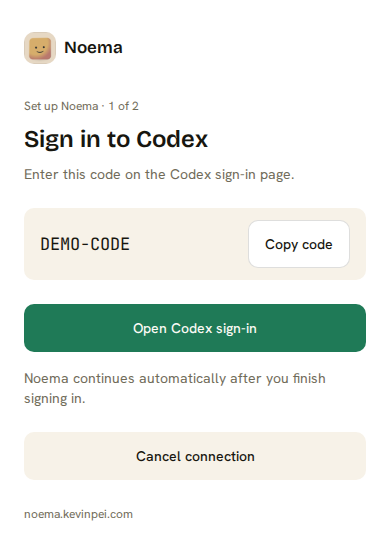
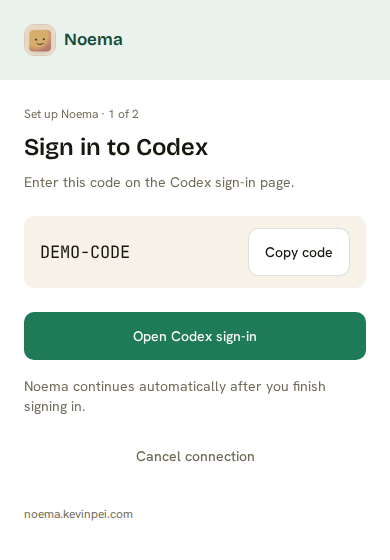
docs: refine supporting UI mock spacing and flow placement

diff --git a/docs/plans/2026-09-04-supporting-ui/mocks.css b/docs/plans/2026-09-04-supporting-ui/mocks.css
@@ -29,61 +29,100 @@ h2 { font: var(--text-heading-4-weight) var(--text-heading-4-size)/var(--text-he
 #preview[data-width="narrow"] { max-width: 320px; }
 .stage { display: grid; justify-items: center; align-content: start; padding: var(--spacing-8) var(--spacing-6) var(--spacing-12); background: var(--noema-paper-50); min-height: 600px; }
 .sheet { width: min(456px, 100%); padding: var(--spacing-8); background: var(--background); border: 1px solid var(--border-subtle); border-radius: var(--radius-container); box-shadow: var(--shadow-low); corner-shape: var(--corner-shape-container); }
-.brand { display: flex; align-items: center; gap: var(--spacing-2); margin-bottom: var(--spacing-8); font: var(--text-large-weight) var(--text-large-size)/var(--text-large-leading) var(--font-family-heading); }
+.brand { display: flex; align-items: center; gap: var(--spacing-2); margin: calc(-1 * var(--spacing-8)) calc(-1 * var(--spacing-8)) var(--spacing-6); padding: var(--spacing-6) var(--spacing-8); background: var(--noema-pine-50); color: var(--noema-pine-700); border-radius: var(--radius-container) var(--radius-container) 0 0; font: var(--text-large-weight) var(--text-large-size)/var(--text-large-leading) var(--font-family-heading); }
 .brand img { border-radius: var(--radius-element); }
-.intro { margin-top: var(--spacing-2); color: var(--muted-foreground); text-wrap: pretty; }
-.step { margin-bottom: var(--spacing-2); color: var(--muted-foreground); font-size: var(--text-supporting-size); line-height: var(--text-supporting-leading); }
-.actions { display: grid; gap: var(--spacing-2); margin-top: var(--spacing-6); }
+#preview[data-tone="welcome"] .brand, #preview[data-tone="success"] .brand { background: var(--noema-pine-700); color: var(--primary-foreground); }
+/* One owner per boundary: heading 8, task regions 24, related body groups 16. */
+.screen-heading { display: grid; gap: var(--spacing-2); }
+.screen-body { display: flex; flex-direction: column; gap: var(--spacing-4); margin-top: var(--spacing-6); }
+.screen-body > * { margin: 0; }
+.screen-body > .actions:has(.primary), .screen-body > .decision-actions { margin-top: var(--spacing-2); }
+.screen-body > .actions:first-child { margin-top: 0; }
+#screen { animation: arrive var(--motion-spring-standard) both; }
+.intro { color: var(--muted-foreground); text-wrap: pretty; }
+.step { color: var(--muted-foreground); font-size: var(--text-supporting-size); line-height: var(--text-supporting-leading); }
+.actions { display: grid; gap: var(--spacing-2); }
 .primary, .secondary, .outline { min-height: 48px; border-radius: var(--radius-element); padding: var(--spacing-3) var(--spacing-4); font-weight: var(--text-label-weight); border: 0; text-align: center; }
-.primary { background: var(--primary); color: var(--primary-foreground); transition: filter var(--motion-spring-micro); }
-.primary:hover { filter: brightness(.94); }
+.primary { background: var(--primary); color: var(--primary-foreground); transition: background var(--motion-spring-micro), box-shadow var(--motion-spring-micro); }
+.primary:hover { background: var(--noema-pine-600); box-shadow: var(--shadow-shell-control); }
+.primary:active { background: var(--noema-pine-700); box-shadow: none; }
 .secondary { background: transparent; color: var(--muted-foreground); }
-.secondary:hover, .option:hover { background: var(--surface-sunken); color: var(--foreground); }
+.secondary:hover { background: var(--surface-sunken); color: var(--foreground); }
 .outline { background: var(--background); border: 1px solid var(--border-default); }
-.decision-actions { display: grid; grid-template-columns: 1fr 1fr; gap: var(--spacing-2); margin-top: var(--spacing-6); }
-.note { margin-top: var(--spacing-4); color: var(--muted-foreground); }
-.status { display: flex; align-items: center; gap: var(--spacing-3); margin-top: var(--spacing-6); padding: var(--spacing-4); background: var(--surface-sunken); border-radius: var(--radius-element); }
+.decision-actions { display: grid; grid-template-columns: 1fr 1fr; gap: var(--spacing-2); }
+.note { color: var(--muted-foreground); }
+.status { display: flex; align-items: center; gap: var(--spacing-3); padding: var(--spacing-4); background: var(--surface-sunken); border-radius: var(--radius-element); }
 .status.success { background: var(--noema-pine-50); color: var(--noema-pine-700); }
 .status.error { background: var(--noema-red-100); color: var(--noema-red-700); }
 .status p + p { margin-top: var(--spacing-1); }
-.status-icon { font-size: var(--font-size-lg); flex: none; }
-.details { margin-top: var(--spacing-6); padding-top: var(--spacing-4); border-top: 1px solid var(--border-subtle); }
+.status-icon { display: grid; place-items: center; width: var(--spacing-6); height: var(--spacing-6); font-size: var(--font-size-lg); flex: none; }
+.status.success .status-icon { background: var(--noema-pine-600); color: var(--primary-foreground); border-radius: var(--radius-full); }
+.status-icon svg { width: var(--spacing-4); height: var(--spacing-4); }
+.status.success path { stroke-dasharray: 24; animation: complete var(--motion-spring-standard) both; }
+.details { padding: var(--spacing-4); background: var(--surface-sunken); border-radius: var(--radius-element); }
 .details p { margin-top: var(--spacing-2); color: var(--muted-foreground); }
-.field { display: grid; gap: var(--spacing-1-5); margin-top: var(--spacing-4); }
+.field { display: grid; gap: var(--spacing-1-5); }
 .field label { font-weight: var(--text-label-weight); }
 .field input { width: 100%; min-height: 48px; background: var(--background); border: 1px solid var(--border-default); border-radius: var(--radius-element); padding: var(--spacing-3); }
 .field [aria-invalid="true"] { border-color: var(--destructive); }
 .field-error { color: var(--destructive); }
-details { margin-top: var(--spacing-4); }
-summary { min-height: 44px; padding-block: var(--spacing-3); cursor: pointer; }
+details { border-block: 1px solid var(--border-subtle); }
+details[open] { padding-bottom: var(--spacing-3); }
+details .actions { margin-top: var(--spacing-4); }
+summary { min-height: 44px; padding-block: var(--spacing-3); cursor: default; color: var(--muted-foreground); }
 details p { color: var(--muted-foreground); margin-top: var(--spacing-2); }
+details .fact { margin-top: 0; }
 details code { font-family: var(--font-family-code); overflow-wrap: anywhere; }
-.options { display: grid; margin-top: var(--spacing-6); border-top: 1px solid var(--border-subtle); }
-.option { display: flex; align-items: center; justify-content: space-between; gap: var(--spacing-3); background: transparent; border: 0; border-bottom: 1px solid var(--border-subtle); text-align: left; padding: var(--spacing-4) 0; min-height: 76px; }
+.options { display: grid; gap: var(--spacing-1); margin: calc(-1 * var(--spacing-3)); }
+/* Row insets extend into the gutter; negative margins keep text on the body rhythm. */
+/* Offline ListItem reference: label/description/endContent; one whole-row action. */
+.option { display: flex; align-items: center; justify-content: space-between; gap: var(--spacing-3); background: transparent; border: 0; border-radius: var(--radius-element); text-align: left; padding: var(--spacing-3); min-height: 48px; transition: background var(--motion-spring-micro), box-shadow var(--motion-spring-micro); }
+.option:hover, .option:focus-visible { background: var(--surface-hover); box-shadow: var(--shadow-inset-hover); }
+.option:active { background: var(--noema-pine-50); box-shadow: var(--shadow-inset-selected); }
+.option-arrow { width: var(--spacing-4); height: var(--spacing-4); flex: none; color: var(--muted-foreground); transition: color var(--motion-spring-micro), transform var(--motion-spring-micro); }
+.option:hover .option-arrow, .option:focus-visible .option-arrow { color: var(--noema-pine-600); transform: translateX(var(--spacing-1)); }
 .option-copy { display: grid; gap: var(--spacing-1); }
 .option-copy small { color: var(--muted-foreground); font: inherit; }
-.facts { display: grid; gap: var(--spacing-3); margin-top: var(--spacing-4); }
+.facts { display: grid; gap: var(--spacing-3); }
 .fact { display: flex; flex-wrap: wrap; justify-content: space-between; gap: var(--spacing-2); }
 .fact span:last-child { color: var(--muted-foreground); }
 .assignment { display: grid; gap: var(--spacing-1-5); margin-top: var(--spacing-3); }
 .assignment select { background: var(--background); border: 1px solid var(--border-default); border-radius: var(--radius-element); padding: var(--spacing-2); min-height: 44px; width: 100%; }
-.progress { margin-top: var(--spacing-6); }
+.progress { display: grid; gap: var(--spacing-2); }
 progress { appearance: none; width: 100%; height: 6px; border: 0; border-radius: var(--radius-full); overflow: hidden; background: var(--surface-sunken); accent-color: var(--primary); }
 progress::-webkit-progress-bar { background: var(--surface-sunken); }
 progress::-webkit-progress-value { background: var(--primary); border-radius: var(--radius-full); }
 progress::-moz-progress-bar { background: var(--primary); }
-.progress .fact { margin-top: var(--spacing-2); }
-.device-code { display: flex; flex-wrap: wrap; align-items: center; justify-content: space-between; gap: var(--spacing-3); margin-top: var(--spacing-6); padding: var(--spacing-3) var(--spacing-4); border-radius: var(--radius-element); background: var(--surface-sunken); }
+.progress .fact { font-variant-numeric: tabular-nums; }
+.device-code { display: flex; flex-wrap: wrap; align-items: center; justify-content: space-between; gap: var(--spacing-3); padding: var(--spacing-3) var(--spacing-4); border-radius: var(--radius-element); background: var(--surface-sunken); }
 .device-code code { font-size: var(--font-size-lg); font-family: var(--font-family-code); letter-spacing: normal; }
 .spinner { width: 18px; height: 18px; border: 2px solid var(--border-default); border-top-color: var(--primary); border-radius: var(--radius-full); animation: turn 1s linear infinite; flex: none; }
 .server-name { color: var(--muted-foreground); margin-top: var(--spacing-6); font-size: var(--text-supporting-size); line-height: var(--text-supporting-leading); overflow-wrap: anywhere; }
 .review-context { max-width: 760px; margin: 0 auto; padding: var(--spacing-6); border-top: 1px solid var(--border-subtle); color: var(--muted-foreground); }
 .review-context p + p { margin-top: var(--spacing-2); }
 #review-status { min-height: 28px; text-align: center; padding-inline: var(--spacing-4); color: var(--noema-pine-700); }
+/* Context for existing Chat intervention placement, not a proposed Chat redesign. */
+#preview[data-surface="chat"] .sheet { width: min(640px, 100%); }
+#preview[data-surface="chat"] .brand, #preview[data-surface="chat"] .server-name { display: none; }
+.chat-heading { display: flex; justify-content: space-between; gap: var(--spacing-3); padding-bottom: var(--spacing-4); border-bottom: 1px solid var(--border-subtle); }
+.chat-heading span { color: var(--muted-foreground); }
+.chat-request { margin-block: var(--spacing-6); margin-left: var(--spacing-6); padding: var(--spacing-3); border-radius: var(--radius-element); background: var(--surface-sunken); }
+#preview[data-surface="chat"] #screen { padding: var(--spacing-3); border: 1px solid var(--border-subtle); border-radius: var(--radius-element); box-shadow: var(--shadow-low); }
+#preview[data-surface="chat"] .screen-heading { gap: var(--spacing-1); }
+#preview[data-surface="chat"] h1 { font: var(--text-label-weight) 13px/1.35 var(--font-family-body); text-wrap: pretty; }
+#preview[data-surface="chat"] .intro { font-size: var(--text-supporting-size); line-height: 1.45; }
+#preview[data-surface="chat"] .screen-body { margin-top: var(--spacing-3); gap: var(--spacing-3); }
+#preview[data-surface="chat"] .actions { display: flex; flex-wrap: wrap; justify-content: end; gap: var(--spacing-1); margin: 0; }
+#preview[data-surface="chat"] .actions button { min-height: 44px; padding: var(--spacing-2) var(--spacing-3); }
+#preview[data-surface="chat"] .status { padding: 0; background: transparent; font-size: var(--text-supporting-size); }
+#chat-composer { display: flex; justify-content: space-between; gap: var(--spacing-3); margin-top: var(--spacing-3); padding: var(--spacing-4); color: var(--muted-foreground); border: 1px solid var(--border-subtle); border-radius: var(--radius-container); }
+@keyframes arrive { from { opacity: 0; transform: translateY(var(--spacing-1)); } to { opacity: 1; transform: none; } }
+@keyframes complete { from { stroke-dashoffset: 24; } to { stroke-dashoffset: 0; } }
 @keyframes turn { to { transform: rotate(360deg); } }
 @container (max-width: 500px) {
   .stage { background: var(--background); padding: var(--spacing-8) var(--spacing-6); min-height: 560px; }
   .sheet { padding: 0; border: 0; box-shadow: none; border-radius: 0; }
+  .brand { margin: calc(-1 * var(--spacing-8)) calc(-1 * var(--spacing-6)) var(--spacing-6); padding: var(--spacing-6); border-radius: 0; }
   .server-name { text-align: left; width: 100%; }
   .field input { font-size: max(16px, 1em); }
 }
@@ -92,6 +131,6 @@ progress::-moz-progress-bar { background: var(--primary); }
   .review-controls { display: grid; grid-template-columns: minmax(0, 1fr); }
 }
 @media (prefers-reduced-motion: reduce) {
-  .spinner { animation: none; }
-  .primary { transition: none; }
+  .spinner, #screen, .status.success path { animation: none; }
+  .primary, .option, .option-arrow { transition: none; }
 }

diff --git a/docs/plans/2026-09-04-supporting-ui/mocks.js b/docs/plans/2026-09-04-supporting-ui/mocks.js
@@ -5,15 +5,16 @@
   const finish = (label, variant = 'primary') => `<button type="button" class="${variant}" data-finish>${label}</button>`;
   const actions = (...items) => `<section class="actions">${items.join('')}</section>`;
   const note = text => `<p class="note">${text}</p>`;
-  const status = (title, text = '', kind = '') => `<section class="status ${kind}"><span class="status-icon" aria-hidden="true">${kind === 'success' ? '✓' : kind === 'error' ? '!' : '·'}</span><section><p><strong>${title}</strong></p>${text ? `<p>${text}</p>` : ''}</section></section>`;
+  const check = '<svg viewBox="0 0 24 24" fill="none" stroke="currentColor" stroke-width="2" stroke-linecap="round" stroke-linejoin="round"><path d="m5 12 4 4 10-10"/></svg>';
+  const status = (title, text = '', kind = '') => `<section class="status ${kind}"><span class="status-icon" aria-hidden="true">${kind === 'success' ? check : kind === 'error' ? '!' : '·'}</span><section><p><strong>${title}</strong></p>${text ? `<p>${text}</p>` : ''}</section></section>`;
   const waiting = text => `<section class="status" role="status"><span class="spinner" aria-hidden="true"></span><p>${text}</p></section>`;
   const field = (id, label, placeholder, error = '') => `<section class="field"><label for="${id}">${label}</label><input id="${id}" type="text" placeholder="${placeholder}" readonly${error ? ` aria-invalid="true" aria-describedby="${id}-error"` : ''}>${error ? `<p class="field-error" id="${id}-error">${error}</p>` : ''}</section>`;
   const facts = rows => `<section class="facts">${rows.map(([label, value]) => `<p class="fact"><span>${label}</span><span>${value}</span></p>`).join('')}</section>`;
-  const option = (label, text, target, provider) => `<button type="button" class="option" data-go="${target}" data-provider="${provider}"><span class="option-copy"><strong>${label}</strong><small>${text}</small></span><span aria-hidden="true">›</span></button>`;
+  const option = (label, text, target, provider) => `<button type="button" class="option" data-go="${target}" data-provider="${provider}"><span class="option-copy"><strong>${label}</strong><small>${text}</small></span><svg class="option-arrow" aria-hidden="true" viewBox="0 0 24 24" fill="none" stroke="currentColor" stroke-width="2" stroke-linecap="round" stroke-linejoin="round"><path d="m9 6 6 6-6 6"/></svg></button>`;
   const recoveryHelp = `<details><summary>Where do I find this code?</summary><p>The current code is in the server’s <code>config.yaml</code> file, under <code>web.recovery_code</code>.</p><p>Ask the person who manages Noema for help.</p></details>`;
   const recoveryRule = note('Each attempt replaces the code, even if it fails.');
-  const localFacts = facts([['Download', '4.9 GB'], ['Runs on', 'Your Noema server']]);
-  const localDetails = `<details><summary>Model details</summary><p>Noema selected this model for the available memory on your server.</p><p>Model files stay on the server.</p></details>`;
+  const localFacts = facts([['Model', 'Gemma 4 E4B IT'], ['Download', '5.3 GB'], ['Runs on', 'Your Noema server']]);
+  const localDetails = `<details><summary>Model details</summary>${facts([['License', 'Apache-2.0'], ['Model format', 'GGUF · Q4_K_M'], ['Runtime', 'Metal']])}<p>Model file: <code>gemma-4-E4B-it-Q4_K_M.gguf</code></p></details>`;
   const screens = [
     {
       id: 'access-login', group: 'Passkeys', label: 'Sign in', title: 'Unlock Noema',
@@ -88,8 +89,8 @@
     {
       id: 'provider-choice', group: 'Model setup', label: 'Choose provider', title: 'Choose how Noema thinks', step: 'Set up Noema · 1 of 2',
       intro: 'Connect one model provider to get started.',
-      body: `<section class="options">${option('Local', 'Download a model to your Noema server.', 'local-ready', 'Local')}${option('OpenRouter', 'Connect your OpenRouter account.', 'provider-openrouter', 'OpenRouter')}${option('Codex', 'Continue with your Codex sign-in.', 'provider-codex', 'Codex')}</section>` + note('You can add more providers later in Settings.'),
-      intent: 'Keep three peer choices in aligned rows. Use the actual server as the location for local computation.',
+      body: `<section class="options" aria-label="Model providers">${option('Local', 'Download a model to your Noema server.', 'local-ready', 'Local')}${option('OpenRouter', 'Connect your OpenRouter account.', 'provider-openrouter', 'OpenRouter')}${option('Codex', 'Continue with your Codex sign-in.', 'provider-codex', 'Codex')}</section>` + note('You can add more providers later in Settings.'),
+      intent: 'Reuse Astryx List and ListItem, as Settings does. Use the existing Noema hover and focus tokens. Descriptions must wrap on phones.',
       constraint: 'Account and payment requirements must come from verified provider information. Do not invent a universal recommendation.'
     },
     {
@@ -136,14 +137,14 @@
     {
       id: 'local-ready', group: 'Local models', label: 'Before download', title: 'Set up a local model', step: 'Set up Noema · 1 of 2',
       intro: 'Download the recommended model to your Noema server.',
-      body: localFacts + localDetails + actions(go('Download model · 4.9 GB', 'local-downloading', 'primary', 'Local'), go('Choose another provider', 'provider-choice', 'secondary')),
-      intent: 'Lead with download size and where the model runs. Disclose technical details.',
-      constraint: 'Download size is sample data. Replace it with the server-selected model, fit, size, and license.'
+      body: localFacts + localDetails + actions(go('Download model · 5.3 GB', 'local-downloading', 'primary', 'Local'), go('Choose another provider', 'provider-choice', 'secondary')),
+      intent: 'Name the model before download. Keep size and computation location visible; disclose license and exact build.',
+      constraint: 'This catalog example requires a compatible Metal server. Production must show the selected model’s actual name, size, license, and build.'
     },
     {
       id: 'local-downloading', group: 'Local models', label: 'Download in progress', title: 'Downloading your model',
       intro: 'The model is downloading to your Noema server.',
-      body: `<section class="progress"><progress aria-label="Model download" value="47" max="100">47%</progress>${facts([['2.3 GB of 4.9 GB', '47%']])}</section>` + note('Noema will check the model before you continue.') + actions(go('Cancel download', 'local-ready', 'secondary')),
+      body: `<section class="progress"><progress aria-label="Model download" value="47" max="100">47%</progress>${facts([['2.5 GB of 5.3 GB', '47%']])}</section>` + note('Noema will check the model before you continue.') + actions(go('Cancel download', 'local-ready', 'secondary')),
       intent: 'Keep progress, transferred bytes, and cancellation in one group.',
       constraint: 'Progress is a fixed example. Production uses transfer state. Do not show an invented time estimate.'
     },
@@ -211,35 +212,35 @@
       constraint: 'Do not use an unvalidated return address or expose callback credentials.'
     },
     {
-      id: 'service-reconnect', group: 'Service connection', label: 'Reconnect service', title: 'Reconnect Google Drive',
-      intro: 'Sign in again so Noema can use this connection.',
-      body: actions(go('Continue to Google', 'service-waiting'), finish('Cancel', 'secondary')) + note('Google opens in another tab.'),
-      intent: 'Keep the service and reason visible. Reuse the existing connection dialog for settings entry.',
+      id: 'service-reconnect', group: 'Chat connection card', surface: 'chat', label: 'Reconnect in Chat', title: 'Reconnect Google Drive',
+      intro: 'Sign in again to let Noema use Google Drive. Google opens in another tab.',
+      body: actions(finish('Cancel', 'secondary'), go('Continue to Google', 'service-waiting')),
+      intent: 'Chat keeps this request in HumanInterventionCard. Settings keeps its existing connection dialog. Do not add a service-connection page.',
       constraint: 'Google Drive is example data. Existing credentials, OAuth, and no-auth paths keep their supported behavior.'
     },
     {
-      id: 'service-waiting', group: 'Service connection', label: 'Waiting for provider', title: 'Finish connecting Google Drive',
+      id: 'service-waiting', group: 'Chat connection card', surface: 'chat', label: 'Waiting in Chat', title: 'Finish connecting Google Drive',
       intro: 'Complete sign-in in the other tab. Noema will update this connection automatically.',
-      body: waiting('Waiting for Google') + actions(finish('Open Google sign-in again', 'outline'), go('Cancel connection', 'service-reconnect', 'secondary')),
-      intent: 'Preserve the same status and cancellation pattern used in provider setup.',
+      body: waiting('Waiting for Google') + actions(go('Cancel', 'service-reconnect', 'secondary'), finish('Open Google sign-in again', 'outline')),
+      intent: 'Keep the pending connection inside the same HumanInterventionCard. The surrounding Chat remains available.',
       constraint: 'Use the server-selected action and exact attempt event. Do not infer success from a closed tab.'
     },
     {
-      id: 'service-connected', group: 'Service connection', label: 'Service connected', title: 'Google Drive is connected',
+      id: 'service-connected', group: 'Service callback results', label: 'Sign-in complete', title: 'Google sign-in is complete',
       intro: 'Return to Noema to review this connection’s tools and permissions.',
-      body: status('Connection complete', '', 'success') + actions(finish('Return to connection')),
-      intent: 'Return to the originating connection instead of dropping the user at Chat.',
+      body: status('Account connected', '', 'success') + actions(finish('Return to Noema')),
+      intent: 'This is a browser callback result. Return to its originating Chat card or Settings dialog to finish permissions.',
       constraint: 'Keep connection policy separate from provider authorization. Use only a validated same-origin destination.'
     },
     {
-      id: 'service-partial', group: 'Service connection', label: 'Sign-in complete, tools unavailable', title: 'Signed in, but tools are not ready',
+      id: 'service-partial', group: 'Service callback results', label: 'Sign-in complete, tools unavailable', title: 'Signed in, but tools are not ready',
       intro: 'Noema could not load the tools for this connection.',
       body: actions(finish('Review connection')) + note('You can retry from the connection settings.'),
       intent: 'Distinguish successful authentication from incomplete connection activation.',
       constraint: 'Do not label this state Connected or discard a valid grant solely because tool listing failed.'
     },
     {
-      id: 'service-failed', group: 'Service connection', label: 'Connection failed', title: 'This connection could not finish',
+      id: 'service-failed', group: 'Service callback results', label: 'Connection failed', title: 'This connection could not finish',
       intro: 'Return to Noema to review the connection and try again.',
       body: actions(finish('Review connection')) + `<details><summary>Technical details</summary><p>The provider did not accept this connection request.</p></details>`,
       intent: 'Use the same branded result page for provider and integration callback failures.',
@@ -282,7 +283,13 @@
     flowSelect.value = screen.group;
     stateSelect.replaceChildren(...screens.filter(item => item.group === screen.group).map(item => new Option(item.label, item.id)));
     stateSelect.value = screen.id;
-    screenRoot.innerHTML = `${screen.step ? `<p class="step">${screen.step}</p>` : ''}<h1 id="screen-title" tabindex="-1">${screen.title}</h1><p class="intro">${screen.intro}</p>${screen.id === 'provider-models' ? modelBody() : screen.body}`;
+    const body = screen.id === 'provider-models' ? modelBody() : screen.body;
+    preview.dataset.surface = screen.surface || 'page';
+    preview.dataset.tone = ['provider-choice', 'access-create'].includes(screen.id) ? 'welcome'
+      : ['recovery-complete', 'provider-complete', 'local-installed', 'oauth-connected', 'service-connected'].includes(screen.id) ? 'success' : 'default';
+    document.getElementById('chat-context').hidden = screen.surface !== 'chat';
+    document.getElementById('chat-composer').hidden = screen.surface !== 'chat';
+    screenRoot.innerHTML = `<header class="screen-heading">${screen.step ? `<p class="step">${screen.step}</p>` : ''}<h1 id="screen-title" tabindex="-1">${screen.title}</h1><p class="intro">${screen.intro}</p></header><section class="screen-body">${body}</section>`;
     document.getElementById('intent').textContent = screen.intent;
     document.getElementById('constraint').textContent = screen.constraint;
     document.title = `${screen.label} · Noema UI plan`;

diff --git a/docs/plans/2026-09-04-supporting-ui/index.html b/docs/plans/2026-09-04-supporting-ui/index.html
@@ -25,7 +25,9 @@
     <section class="stage">
       <article class="sheet">
         <header class="brand"><img src="assets/noema.png" width="32" height="32" alt=""><span>Noema</span></header>
+        <section id="chat-context" hidden><header class="chat-heading"><strong>Chat</strong><span>Trip notes</span></header><p class="chat-request">Find my trip notes in Google Drive.</p></section>
         <section id="screen" aria-labelledby="screen-title"></section>
+        <section id="chat-composer" hidden aria-label="Chat composer context"><span>Message Noema…</span><span aria-hidden="true">↑</span></section>
       </article>
       <footer class="server-name">noema.kevinpei.com</footer>
     </section>

diff --git a/docs/plans/2026-09-04-supporting-ui/README.md b/docs/plans/2026-09-04-supporting-ui/README.md
@@ -5,7 +5,9 @@ Date: 2026-09-04. Source baseline: `main` at `53b15734`.
 
 ## Review the mocks
 
-Open [the gallery](index.html) in a browser. No server, build, or network connection is required.
+Open [the gallery](index.html) in a browser. An editor file link can show source instead of the rendered page.
+For browser review, serve this directory with `python3 -m http.server 8765 --bind 127.0.0.1`.
+Then open [the rendered gallery](http://127.0.0.1:8765/). No build or remote resources are required.
 Use the Flow and State controls to inspect each example.
 Use Width to compare desktop, phone, and narrow layouts.
 The address fragment identifies a screen. Browser Back restores the previous screen.
@@ -20,7 +22,8 @@ The gallery consolidates the earlier login, recovery, model review, and callback
 | Model setup | [Choose provider](index.html#provider-choice) | Provider choice, OpenRouter, Codex device code, waiting, expiration, model review, completion |
 | Local models | [Before download](index.html#local-ready) | Download choice, progress, verification, installed, failed, unavailable |
 | Native app connection | [Approve connection](index.html#oauth-consent) | Consent, connected, denied, expired, invalid request |
-| Service connection | [Reconnect service](index.html#service-reconnect) | Reconnect, waiting, connected, tools unavailable, failed |
+| Chat connection card | [Reconnect in Chat](index.html#service-reconnect) | Reconnect and waiting inside the existing human intervention surface |
+| Service callback results | [Sign-in complete](index.html#service-connected) | Browser callback: sign-in complete, tools unavailable, failed |
 | Unavailable states | [Server unavailable](index.html#system-unavailable) | Server authentication unavailable, fatal app load failure |
 
 ## User direction
@@ -28,7 +31,9 @@ The gallery consolidates the earlier login, recovery, model review, and callback
 - Keep the existing design system, including fonts, semantic type sizes, weights, and line heights.
 - Improve the supporting flows without redesigning Chat, Tasks, Memory, or Settings.
 - Make the interface polished, restrained, and understandable for a non-technical person.
-- Add character through the existing Noema mark, clear composition, and accurate completion feedback.
+- Add more character through the existing mark, stronger pine headers, responsive controls, and accurate completion feedback.
+- Use the existing list components for provider choices. Keep service setup in its current Chat card or Settings dialog.
+- Show concrete model details. Do not substitute a general memory-fit statement for the model identity.
 - Save these designs for later application. Do not implement product changes in this unit.
 
 ## Design model
@@ -46,11 +51,18 @@ Use the existing setup frame, connection surfaces, and Astryx controls during im
 - Start with a 456-pixel surface. Expand only when the task requires more space.
 - On phones, remove the outer card treatment and use 24-pixel side insets.
 - Keep the mark, heading, body, fields, and actions on one alignment.
+- Use a pine-tinted brand band. Use deep pine for initial setup and successful completion.
+- Keep errors calm. Reserve the stronger completion color and check animation for confirmed success.
 - Use existing `text-heading-1`, `text-body`, `text-label`, and `text-supporting` roles.
 - Use the existing font assets. Do not add font imports, custom tracking, or another type scale.
 - Use `radius-container`, `radius-element`, and `shadow-low` from the current Noema theme.
-- Use existing spacing tokens: 4–8 pixels within groups, 12–16 between fields, and 24 between task regions.
-- Use 32 pixels only at the major brand boundary and desktop surface inset.
+- Assign one spacing owner per boundary: 8 pixels inside the header, 16 between body groups, and 24 before primary actions.
+- Keep label/control gaps at 6 pixels. Do not add child margins to a parent stack gap.
+- Use 32 pixels for the desktop surface inset. Use 24 pixels inside the brand band and below it.
+- Use Astryx `List` and `ListItem` for provider choices, with wrapping descriptions and a trailing chevron.
+- Settings already uses these components. Tasks uses `ListCardLink`; retain its familiar whole-row feedback.
+- Match the preview’s inset hover, pressed fill, and visible keyboard focus through existing theme tokens.
+- Keep model name, download size, and computation location visible. Disclose license, format, runtime, and exact file.
 - Give one action primary emphasis. Keep alternatives quiet and access consequences visible.
 - Use touch controls around 48 pixels high without making all product controls larger.
 - Use the shared motion presets. Keep loading geometry stable and preserve focus through transitions.
@@ -89,6 +101,9 @@ No credentials were submitted. No account, grant, or recovery code was changed.
 - Native consent must disclose complete Noema access before approval.
 - Preserve recent passkey verification, CSRF, PKCE, origin checks, and validated callback destinations.
 - Use saved attempt state to distinguish denial, expiration, failed activation, and successful connection.
+- Service setup and waiting remain inside `HumanInterventionCard` in Chat and existing dialogs in Settings.
+- Only browser callback results use separate service result pages. Return to the originating card or dialog.
+- `McpChatSetupCard` and API authentication cards own inline behavior; do not create another service setup route.
 - Keep successful sign-in separate from successful tool discovery. A partial result is not fully connected.
 - Use exact attempt events and the existing foreground query. Do not add polling.
 - Keep API-key, local, browser OAuth, device-code, credential, and no-auth paths where currently supported.
@@ -105,8 +120,8 @@ Estimates below are maximum net additions, not targets. Reassess against current
 | Unit | Existing authority to reuse | Estimate | Acceptance risk |
 | --- | --- | --- | --- |
 | 1. Access and recovery | `auth/AuthGate.tsx`, `components/shell/SetupFrame.tsx`, current theme, `components/shell/AppBootBoundary.tsx` | +160 production lines; no new UI tests | Recovery must work during native sign-in and PWA reauthentication; preserve session rules and focus |
-| 2. Connection pages | `components/onboarding/AuthAttempt.tsx`, current connection dialogs, server callback and consent renderers | +220 production lines; up to one server unit regression test | Every result must state the true access outcome and return safely |
-| 3. Setup | `components/onboarding/Onboarding.tsx`, `components/onboarding/ModelSetup.tsx`, existing model preference selectors | +120 production lines; no new UI tests | Defaults remain drafts; all assignments remain editable; local and cloud paths remain complete |
+| 2. Connection pages | `components/onboarding/AuthAttempt.tsx`, `components/actions/HumanInterventionCard.tsx`, current connection dialogs, server callback and consent renderers | +220 production lines; up to one server unit regression test | Every result must state the true access outcome and return safely |
+| 3. Setup | `components/onboarding/Onboarding.tsx`, `components/onboarding/ModelSetup.tsx`, Astryx `List`/`ListItem`, existing model preference selectors | +120 production lines; no new UI tests | Defaults remain drafts; all assignments remain editable; local and cloud paths remain complete |
 
 Paths above are relative to `apps/web/src` unless identified as server files.
 At this baseline, server renderers live in `crates/noema-server/src/web/router.rs` and `native_oauth.rs`.
@@ -137,6 +152,9 @@ This plan requires no database migration or persistent schema change.
 `assets/noema-theme.css` copies the existing theme without its original font-face paths.
 `assets/typography.css` snapshots the Astryx neutral 0.1.9 semantic type tokens.
 The three font files, their licenses, and `assets/noema.png` copy the existing Noema assets without modification.
+The local-model example comes from `crates/noema-providers/resources/local-models/catalog.toml` at the source baseline.
+It shows Gemma 4 E4B IT, its 5.3 GB Q4_K_M build, Apache-2.0 license, and Metal runtime.
+This is catalog example data, not a claim about the live server’s selected model.
 The gallery uses native HTML controls to remain independent of a build. It is not a new production component library.
 Use production components and current tokens when applying the plan. Do not copy snapshot CSS into the application.
 Only light appearance is specified. A new dark theme is outside this plan.

diff --git a/docs/plans/2026-09-04-supporting-ui/validation.md b/docs/plans/2026-09-04-supporting-ui/validation.md
@@ -1,6 +1,6 @@
 # Mock validation
 
-Date: 2026-09-04.
+Date: 2026-09-04. Updated after spacing, model-detail, list-feedback, and surface-placement review.
 Scope: the saved design gallery. These results do not certify the production flows.
 
 ## Completed checks
@@ -9,7 +9,8 @@ Scope: the saved design gallery. These results do not certify the production flo
 - Chromium opened the gallery directly from disk.
 - Network requests were blocked during review. The gallery requested no remote resources.
 - All 35 states rendered at desktop, 390-pixel, and 320-pixel preview widths.
-- The 105 layout checks found no horizontal overflow in the screen or its block content.
+- The 105 layout checks found no content outside the preview width and no text overflow.
+- The brand band and row hit areas extend into their reserved gutters; these intended insets remain inside the viewport.
 - The expanded model form also fit a physical 320-pixel browser viewport.
 - All action targets and documented screen links resolved.
 - Keyboard activation opened recovery and focused the code input.
@@ -19,7 +20,12 @@ Scope: the saved design gallery. These results do not certify the production flo
 - Model customization exposed all nine assignments.
 - Changing an assignment changed the confirmation label to match the custom selection.
 - The Local example kept action reviews as human approval.
-- Reduced motion stopped the waiting spinner.
+- Provider rows showed distinct hover and pressed feedback. Keyboard focus showed a solid outline.
+- Enter on the Local row opened local setup. Each row remains one action.
+- The service reconnect and waiting examples rendered inside the Chat intervention context.
+- Service callback results remained separate pages. Success copy did not imply that connection policy was complete.
+- Expanded model details showed the catalog model name, 5.3 GB size, license, format, runtime, and file.
+- Reduced motion stopped the waiting spinner and success-check animation.
 - The reviewed sessions reported no uncaught JavaScript errors.
 - Heading inspection confirmed the existing 24-pixel, 600-weight semantic heading with normal letter spacing.
 - The existing bundled heading, body, and code fonts loaded without external font imports.
@@ -27,6 +33,10 @@ Scope: the saved design gallery. These results do not certify the production flo
 
 ## Saved visual references
 
+- [Provider row hover, desktop](screenshots/proposed-providers-hover-desktop.png)
+- [Inline connection request, phone](screenshots/proposed-connection-inline-phone.png)
+- [Expanded model details, phone](screenshots/proposed-local-details-phone.png)
+- [Setup complete, desktop](screenshots/proposed-complete-desktop.png)
 - [Native consent, desktop](screenshots/proposed-consent-desktop.png)
 - [Codex device sign-in, phone](screenshots/proposed-codex-phone.png)
 - [Local download, desktop](screenshots/proposed-download-desktop.png)
@@ -39,6 +49,7 @@ Scope: the saved design gallery. These results do not certify the production flo
 The gallery performs no authentication, API calls, account writes, or model downloads.
 It simulates the named states; it does not verify server transitions or provider consent pages.
 The native browser passkey prompt is not reproduced.
+The Chat context illustrates placement only. Production must reuse HumanInterventionCard and existing Chat composition.
 Screen-reader acceptance and a real mobile keyboard review remain implementation checks.
 The non-technical usability session remains an implementation acceptance gate.
 Application builds and Rust tests were not run because this unit changes plan files only.
